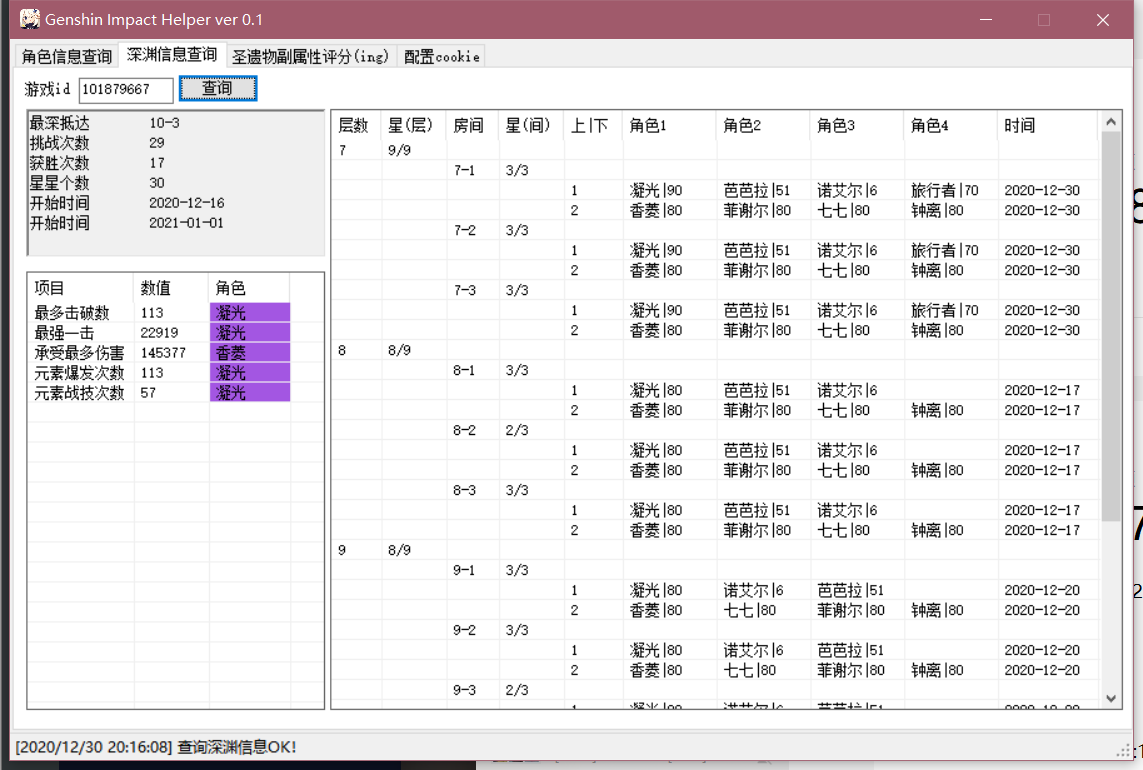
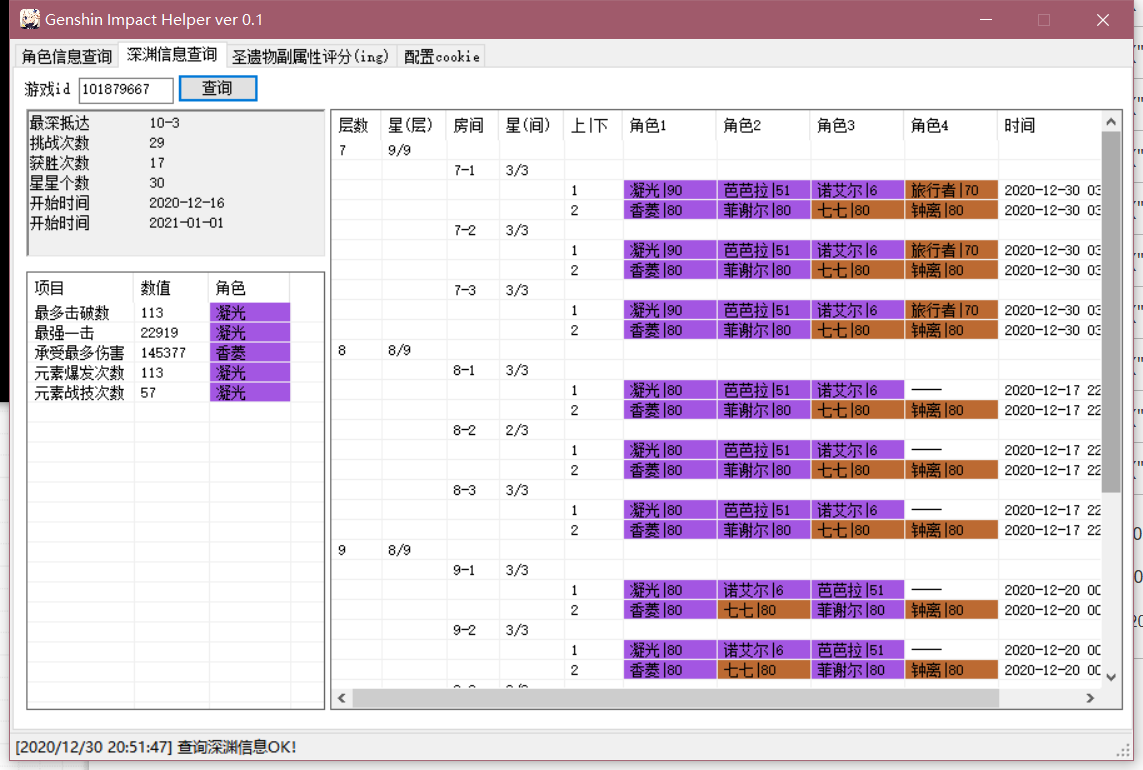
改善深渊信息的展示效果

diff --git a/cs_ys_helper/Form1.cs b/cs_ys_helper/Form1.cs
@@ -361,19 +361,28 @@ namespace cs_ys_helper
                         foreach (JsonData battle in level["battles"])
                         {
                             string battle_idx = battle["index"].ToString();
-                            string date = Utils.ts2Date(battle["timestamp"].ToString());
+                            string date = Utils.ts2Datetime(battle["timestamp"].ToString());
                             JsonData role = battle["avatars"];
-                            string role0 = "";
-                            string role1 = "";
-                            string role2 = "";
-                            string role3 = "";
 
+                            ListViewItem lvi_3 = new ListViewItem(new string[] { "", "", "", "", battle_idx });
+                            lvi_3.UseItemStyleForSubItems = false;
+                            string[] roles = new string[] { "", "", "", "" };
+                            for(int i = 0; i < 4; i++)
+                            {
+                                if (i >= role.Count)
+                                {
+                                    lvi_3.SubItems.Add("----");
+                                }
+                                else
+                                {
+                                    roles[i] = Utils.code2name(role[i]["id"].ToString()) + "|" + role[i]["level"].ToString();
+                                    lvi_3.SubItems.Add(roles[i]);
+                                    lvi_3.SubItems[i + 5].BackColor = Utils.getRarityColor(role[i]["rarity"].ToString());
+                                }
+                            }
 
-                            if (role.Count > 0) role0 = Utils.code2name(role[0]["id"].ToString()) + "|" + role[0]["level"].ToString();
-                            if (role.Count > 1) role1 = Utils.code2name(role[1]["id"].ToString()) + "|" + role[1]["level"].ToString();
-                            if (role.Count > 2) role2 = Utils.code2name(role[2]["id"].ToString()) + "|" + role[2]["level"].ToString();
-                            if (role.Count > 3) role3 = Utils.code2name(role[3]["id"].ToString()) + "|" + role[3]["level"].ToString();
-                            ListViewItem lvi_3 = new ListViewItem(new string[] { "", "", "", "", battle_idx, role0, role1, role2, role3, date });
+                            lvi_3.SubItems.Add(date);
+
                             listView_abyss_details.Items.Add(lvi_3);
 
                         }

diff --git a/cs_ys_helper/Utils.cs b/cs_ys_helper/Utils.cs
@@ -281,8 +281,13 @@ namespace cs_ys_helper
             long delta = Convert.ToInt64(ts);
             System.DateTime startTime = TimeZone.CurrentTimeZone.ToLocalTime(new System.DateTime(1970, 1, 1)); // 当地时区
             return startTime.AddSeconds(delta).ToString("yyyy-MM-dd ");
-
-
+        }
+        //时间戳转日期-长
+        public static string ts2Datetime(string ts)
+        {
+            long delta = Convert.ToInt64(ts);
+            System.DateTime startTime = TimeZone.CurrentTimeZone.ToLocalTime(new System.DateTime(1970, 1, 1)); // 当地时区
+            return startTime.AddSeconds(delta).ToString("yyyy-MM-dd HH:mm:ss");
         }
     }
 }

diff --git a/cs_ys_helper/Form1.Designer.cs b/cs_ys_helper/Form1.Designer.cs
@@ -863,7 +863,7 @@
             // columnHeader31
             // 
             this.columnHeader31.Text = "时间";
-            this.columnHeader31.Width = 80;
+            this.columnHeader31.Width = 160;
             // 
             // Form1
             // 
